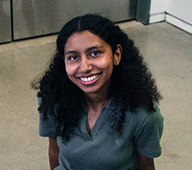
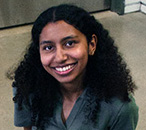
changed pics

diff --git a/works.html b/works.html
@@ -34,7 +34,7 @@
                 <p>Twisting Whisk</p>
                 <p>A modular whisk designed to make cooking more intuitive and fun.</p>
                 <img src="portfolio_pics/twisting_whisk_standard.jpg" alt="Twisting Whisk, a modular whisk designed to adapt to your needs." width="189" height="170" />
-                <img src="portfolio_pics/twisting_whisk_curved.jpg" alt="Twisting Whisk, in an alternate position." width="189" height="170" />
+                <img src="portfolio_pics/twisting_whisk_curved.jpg" alt="Twisting Whisk, in an alternate position." width="220" height="170" />
                 <img src="portfolio_pics/whisk1.3_2.png" alt="Twisting Whisk, in an alternate position." width="101" height="170" />
 
             </li>
